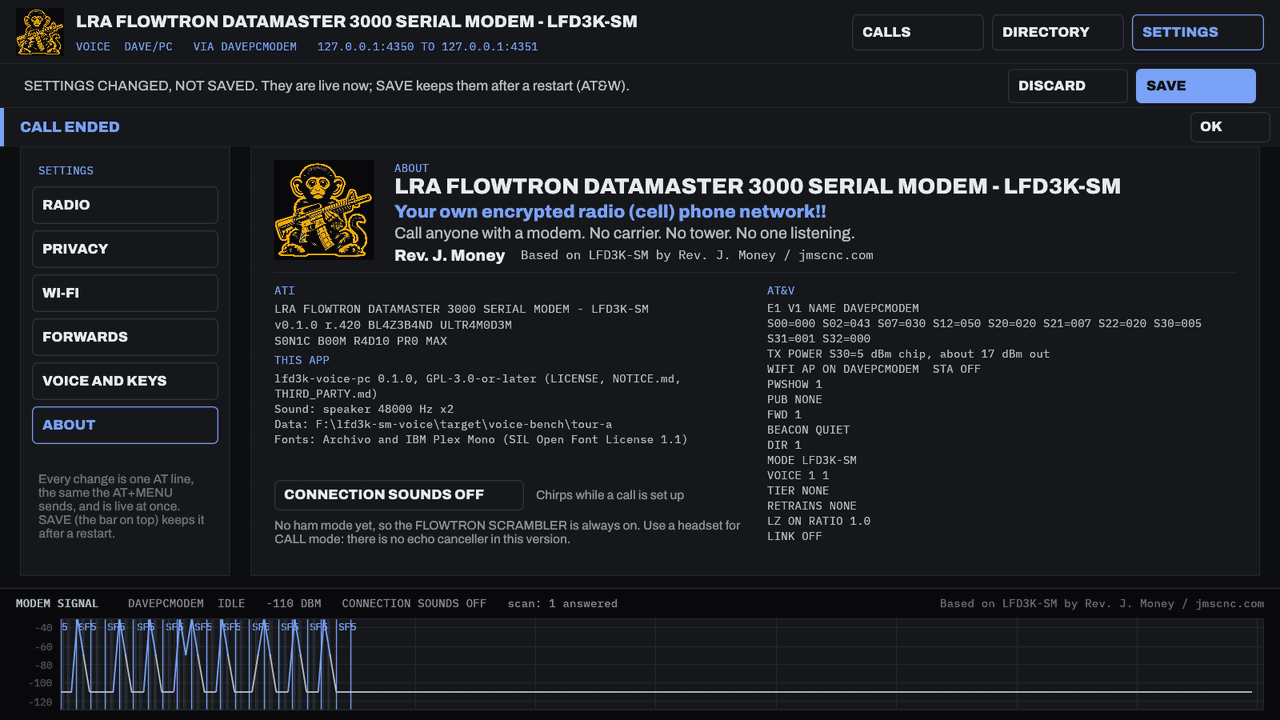
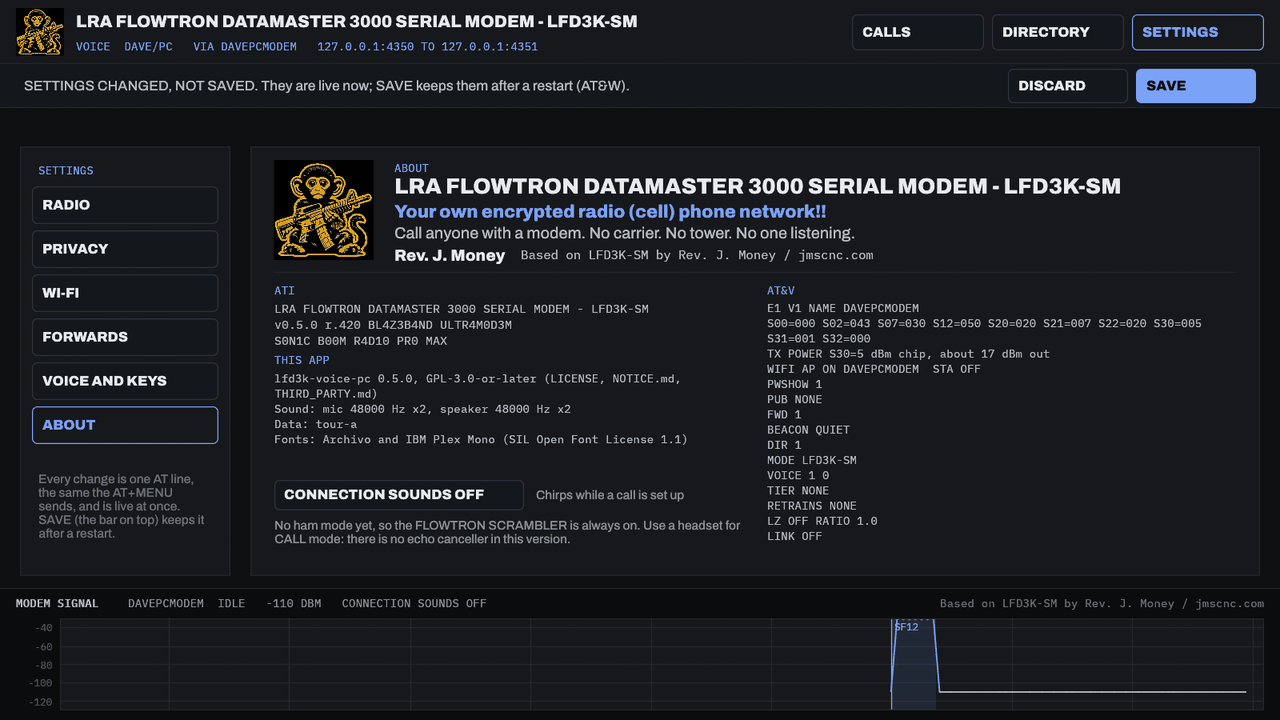
Voice bench: About screenshots 26 and 28 taken again on v0.5.0

diff --git a/docs/voice-bench/pc/README.md b/docs/voice-bench/pc/README.md
@@ -9,7 +9,7 @@ Voice part 1, Task 9b (2026-11-13). `lfd3k-voice-pc` (release build) on this PC,
 | 11, 12 | From the recorded SF9 call: push to talk, DAVE holding TALK, MAYA hearing him (THEY ARE TALKING) |
 | 13, 14 | From the recorded SF12 call: PTT DELAYED, DAVE talking, MAYA hearing him about 5.8 s late |
 | 15 to 19 | Screen only states (the script's `fake`, nothing sent): NOT THE MAYA YOU CHECKED (a conflict), ANSWERED ELSEWHERE, DECLINED, a full people list and directory paged |
-| 20 to 30 | SETTINGS: Radio, then S30 set to 5 (the warning above the safe default, SETTINGS CHANGED NOT SAVED), Privacy set to QUIET, Wi-Fi (the built-in modem has no Wi-Fi; a client name typed, nothing sent), Forwards with AXIS added, Voice and keys, About with CONNECTION SOUNDS OFF, then SAVE (AT&W): saved, About reading AT&V back (S30=005, BEACON QUIET, FWD 1), Radio and Forwards after the save |
+| 20 to 30 | SETTINGS: Radio, then S30 set to 5 (the warning above the safe default, SETTINGS CHANGED NOT SAVED), Privacy set to QUIET, Wi-Fi (the built-in modem has no Wi-Fi; a client name typed, nothing sent), Forwards with AXIS added, Voice and keys, About with CONNECTION SOUNDS OFF, then SAVE (AT&W): saved, About reading AT&V back (S30=005, BEACON QUIET, FWD 1), Radio and Forwards after the save. 26 and 28 were taken again after the merge to v0.5.0 (the About tab shows the version): the same settings steps with DAVE/PC alone (no call before them, so no CALL ENDED banner) and a neutral data folder |
 | 31 to 38 | Linking: DAVE/PC shows a link code, a new device NEW/PC2 joins with it and calls DAVE/PC, both show LINKED, and the new device is now DAVE/PC2 with the person key |
 | 39 | From the recorded SF12 call: MAYA pressed TALK and is talking, WAITING FOR THE FLOOR (her words are kept and sent once the floor is hers) |
 
